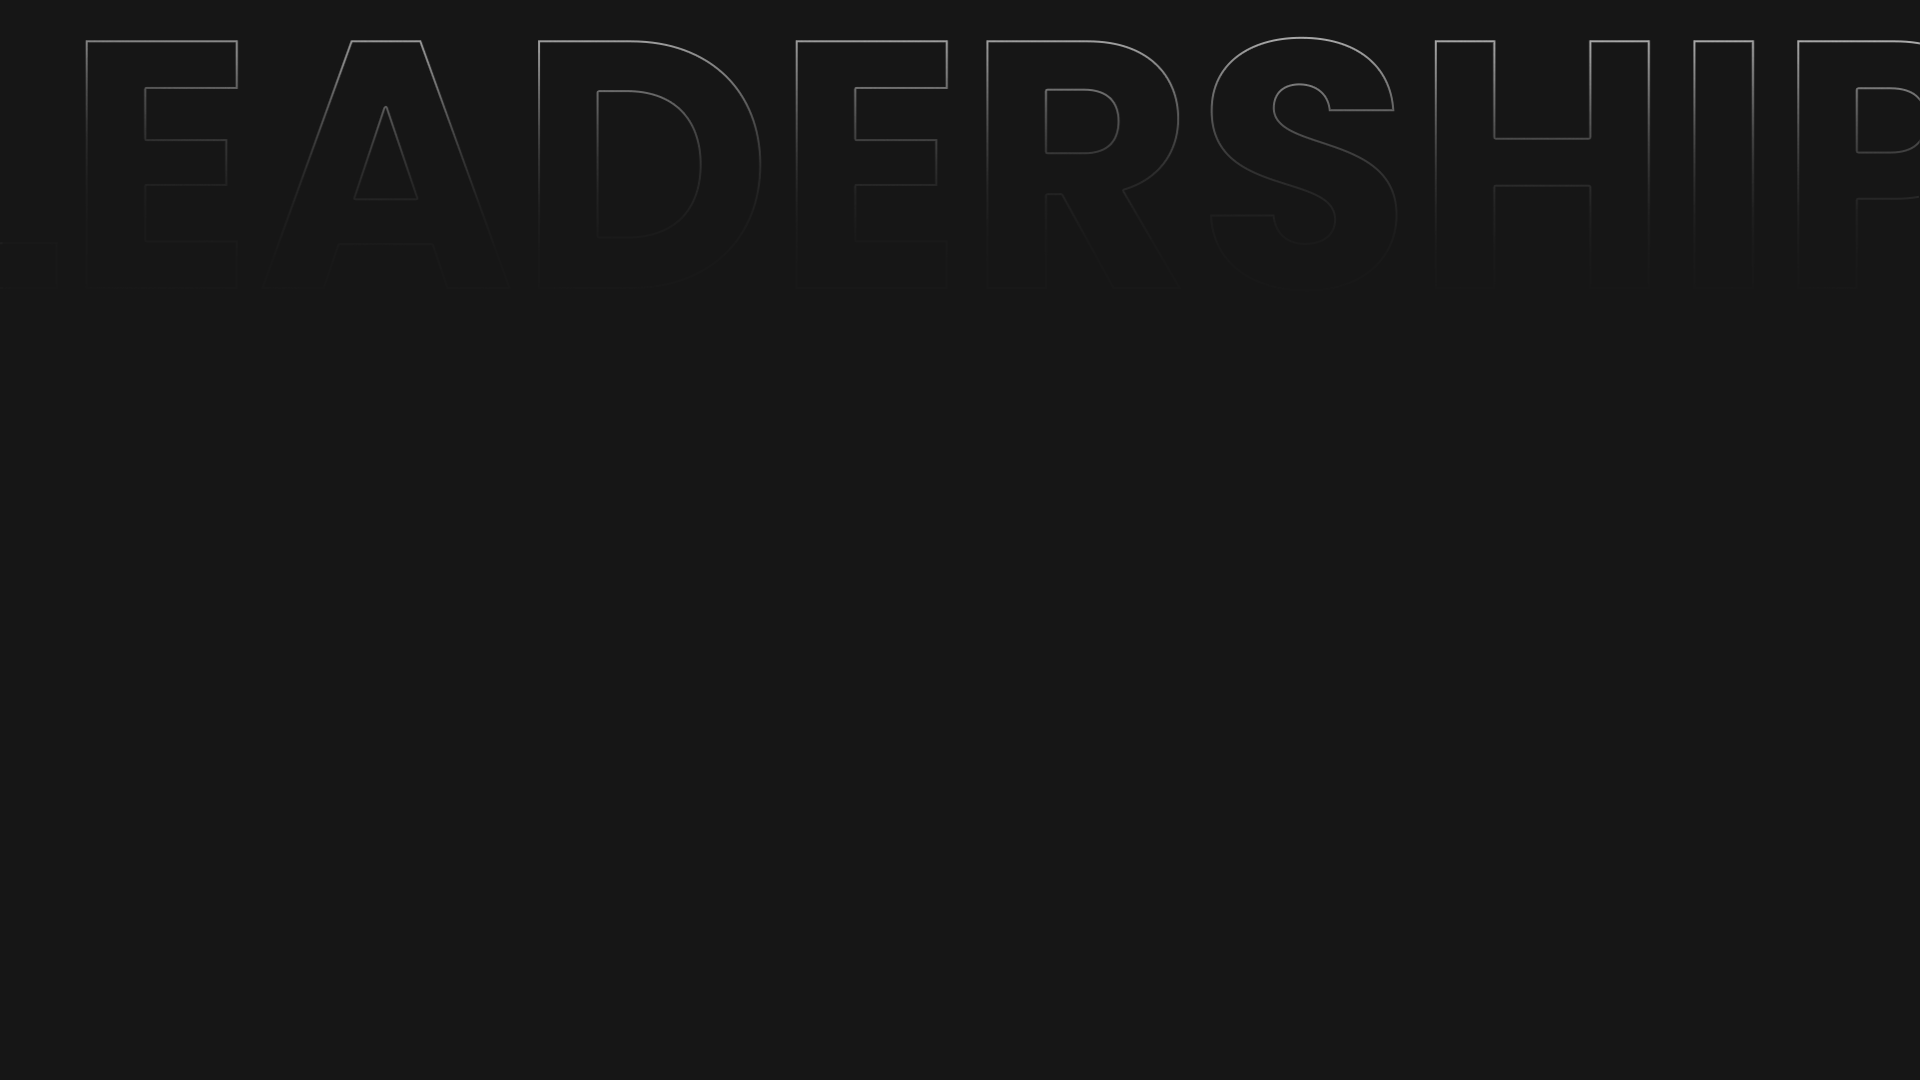
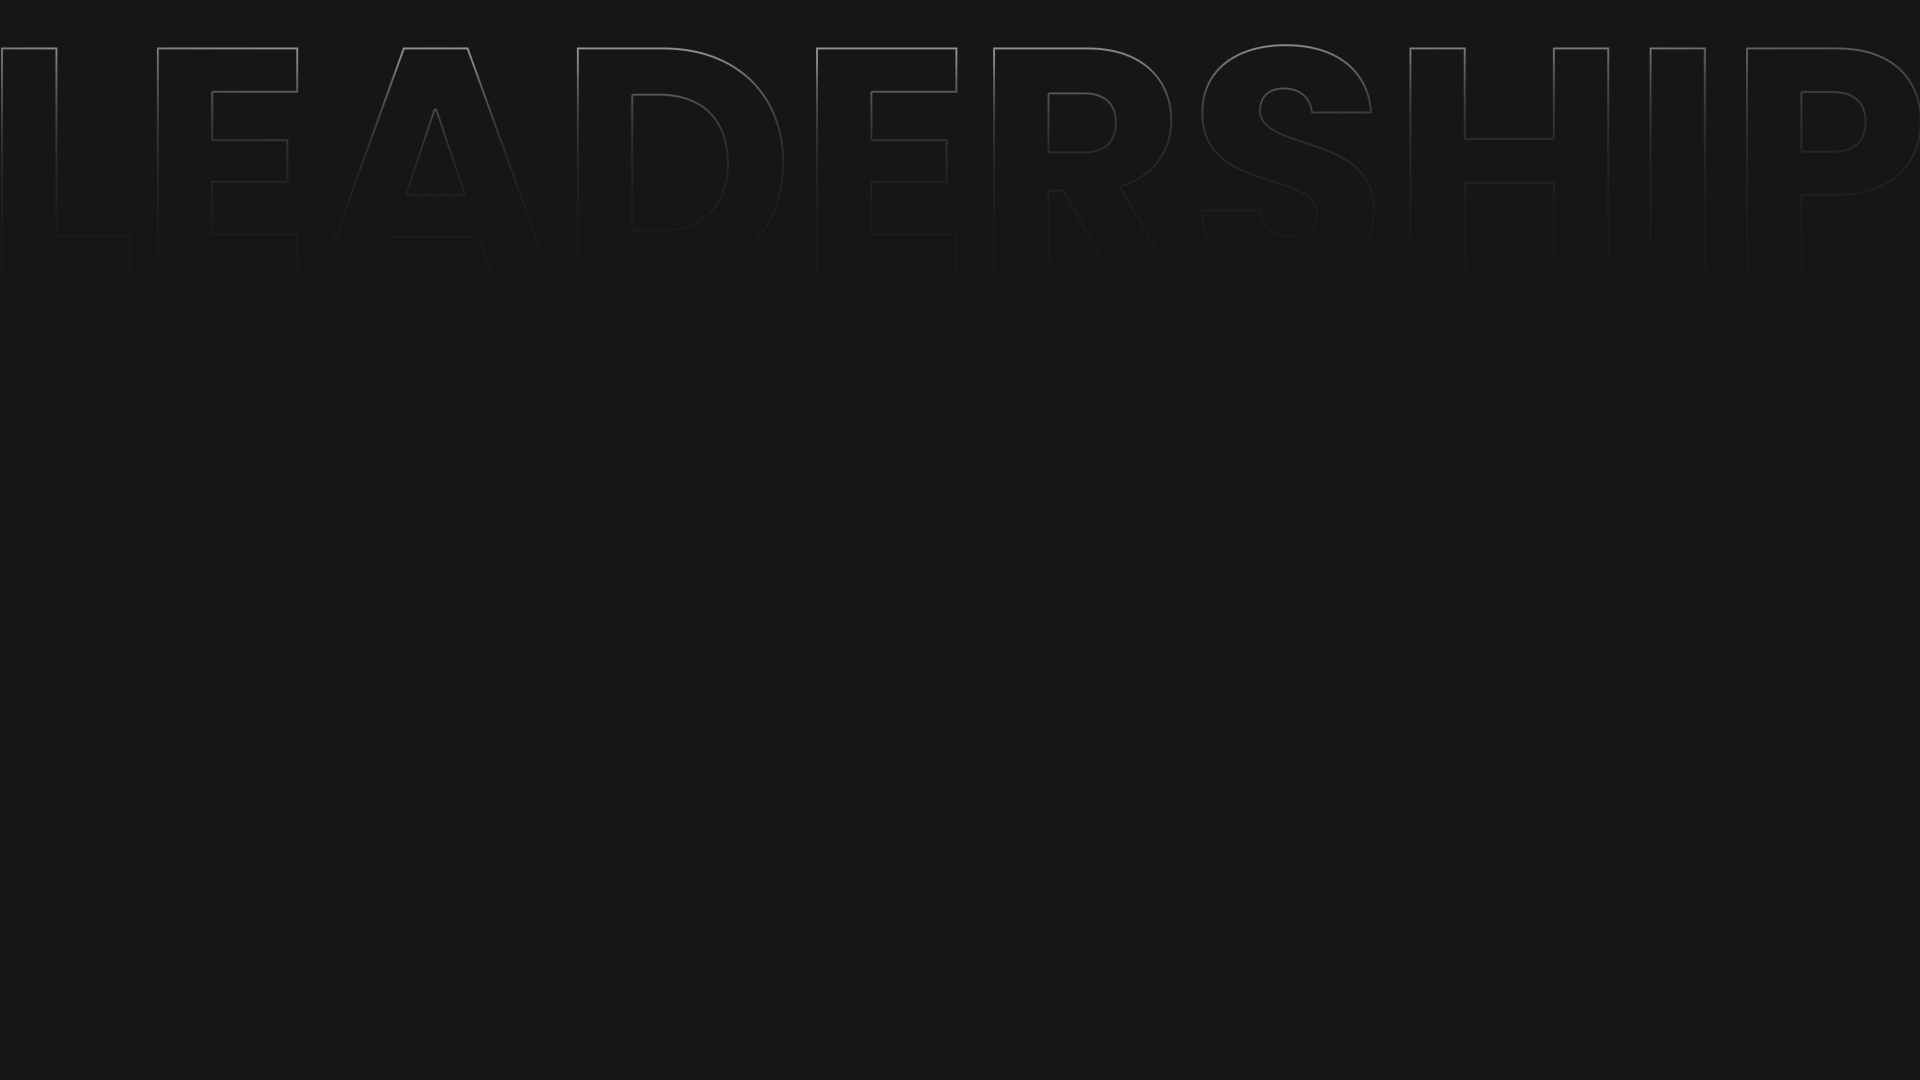
responsivity, databases

diff --git a/src/scss/TeamScreen.scss b/src/scss/TeamScreen.scss
@@ -1,0 +1,92 @@
+@import url('https://fonts.googleapis.com/css2?family=Poppins:wght@400;600;800&display=swap');
+@import url('https://fonts.googleapis.com/css2?family=Inter:wght@400;700&display=swap');
+@import "variables";
+
+.leadership-section {
+    background-image: url('../images/leadership.png');
+    background-repeat: no-repeat;
+    background-size: cover;
+}
+
+.leadership-wrapper {
+    padding-top: calc(6vw);
+    padding-bottom: calc(8vw);
+}
+
+.paragraph {
+    font-size: 24px;
+    font-weight: 400;
+    font-family: 'Poppins', sans-serif;
+    color: $main-white-color;
+    text-align: center;
+    margin: 0 auto;
+    max-width: 800px;
+}
+
+@media only screen and (max-width: 700px) {
+    .paragraph {
+        font-size: 17px;
+    }
+}
+
+@media only screen and (max-width: 400px) {
+    .paragraph {
+        font-size: 14px;
+    }
+}
+
+.team-image {
+    width: auto;
+    max-height: 265px;
+    border-radius: 90px;
+}
+
+@media only screen and (max-width: 1201px) {
+    .team-image {
+        max-height: 200px;
+        border-radius: 60px;
+    }
+}
+
+@media only screen and (max-width: 992px) {
+    .team-image {
+        max-height: 135px;
+        border-radius: 50px;
+    }
+}
+
+
+h5 {
+    font-weight: 700;
+    font-family: 'Poppins', sans-serif;
+    color: $main-white-color;
+    font-size: 24px;
+}
+
+.position {
+    font-weight: 400;
+    font-family: 'Poppins', sans-serif;
+    color: $main-white-color;
+    font-size: 24px;
+}
+
+@media only screen and (max-width: 1201px) {
+    .position {
+        font-size: 12px;
+    }
+}
+
+.position-administrator {
+    color: $light-green-color !important;
+}
+
+.social-icon {
+    font-size: 38px;
+    margin-top: -15px;
+}
+
+.team-card {
+    margin-left: 15px;
+    margin-right: 15px;
+    width: auto;
+}

diff --git a/src/components/LeadershipEngine.jsx b/src/components/LeadershipEngine.jsx
@@ -1,0 +1,32 @@
+import React from 'react'
+import { Container, Row, Col } from 'react-bootstrap';
+import { LeadershipData} from '../database/LeadershipData';
+import { FaGlobe } from "react-icons/fa6";
+import { FaInstagram } from "react-icons/fa";
+import '../scss/TeamScreen.scss'
+
+const LeadershipEngine = () => {
+  return (
+    <Container>
+      <Row>
+        {LeadershipData.map((LeadershipItem) => {
+          return (
+            <Col sm={6} md={3} lg={3} key={LeadershipItem.id}>
+              <div className="team-card">
+                <img src={LeadershipItem.photo} alt="" className="team-image" />
+                <h5 className="mt-2">{LeadershipItem.nickname}</h5>
+                <p className="position position-administrator text-center">{LeadershipItem.position}</p>
+                <div className="d-flex flex-row social-icon justify-content-center mb-5">
+                  <a href={LeadershipItem.social}><FaGlobe /></a>
+                  <a href={LeadershipItem.social}><FaInstagram /></a>
+                </div>
+              </div>
+            </Col>
+          );
+        })}
+      </Row>
+    </Container>
+  );
+}
+
+export default LeadershipEngine;

diff --git a/src/database/SliderData.js b/src/database/SliderData.js
@@ -1,27 +1,27 @@
 export const SliderData = [
     {
         id: 1,
-        title: 'Yellow Islands',
-        linkImg: '../src/images/sliderMap5.png',
+        title: 'Brown Valley',
+        linkImg: '../src/images/SliderImages/sliderMap1.png',
     },
     {
         id: 2,
-        title: 'Brown Valley',
-        linkImg: '../src/images/sliderMap1.png',
+        title: 'Red Village',
+        linkImg: '../src/images/SliderImages/sliderMap2.png',
     },
     {
         id: 3,
         title: 'Red Village',
-        linkImg: '../src/images/sliderMap2.png',
+        linkImg: '../src/images/SliderImages/sliderMap3.png',
     },
     {
         id: 4,
-        title: 'Yellow Islands',
-        linkImg: '../src/images/sliderMap3.png',
+        title: 'China',
+        linkImg: '../src/images/SliderImages/sliderMap4.png',
     },
     {
         id: 5,
-        title: 'China',
-        linkImg: '../src/images/sliderMap4.png',
+        title: 'Yellow Islands',
+        linkImg: '../src/images/SliderImages/sliderMap5.png',
     },
 ]

diff --git a/src/database/LeadershipData.js b/src/database/LeadershipData.js
@@ -1,0 +1,30 @@
+export const LeadershipData = [
+    {
+        id: 1,
+        nickname: 'ReggyCZ',
+        position: 'Administrator',
+        social: 'https://www.instagram.com/reggycz/',
+        photo: '../src/images/LeadershipImages/ReggyCZ.png',
+    },
+    {
+        id: 2,
+        nickname: 'Adonymous',
+        position: 'Graphic designer',
+        social: 'https://www.epic-central.eu/',
+        photo: '../src/images/LeadershipImages/Adonymous.png',
+    },
+    {
+        id: 3,
+        nickname: 'TagzTurtlee',
+        position: 'Render artist',
+        social: 'https://www.instagram.com/tagzturtlee_builder/',
+        photo: '../src/images/LeadershipImages/ReggyCZ.png',
+    },
+    {
+        id: 4,
+        nickname: 'Jayjayli',
+        position: 'Administrator',
+        social: 'https://jayjay.li/',
+        photo: '../src/images/LeadershipImages/Jayjayli.png',
+    },
+]

diff --git a/src/screens/TeamScreen.jsx b/src/screens/TeamScreen.jsx
@@ -1,8 +1,25 @@
 import React from 'react'
+import { Container } from 'react-bootstrap'
+import '../scss/TeamScreen.scss'
+import LeadershipEngine from '../components/LeadershipEngine'
 
 const TeamScreen = () => {
   return (
-    <div>TeamScreen</div>
+    <>
+      <section className="leadership-section">
+        <Container>
+          <div className="leadership-wrapper text-center">
+            <h2>Leadership</h2>
+            <p className="paragraph text-center mt-5">Leadership is responsible for the entire BuildsMarket project. They accept or reject applications for
+             positions and are responsible for the entire BuildsMarket systems.
+            </p>
+            <div className="d-flex flex-row justify-content-center mt-5">
+              <LeadershipEngine />
+            </div>
+          </div>
+        </Container>
+      </section>
+    </>
   )
 }
 

diff --git a/src/components/Footer.jsx b/src/components/Footer.jsx
@@ -18,9 +18,9 @@ const Footer = () => {
           </div>
           <div className="col-md-4 text-center mb-md mt-3 mb-1">
             <div className="footer-icons">
-              <a href="https://www.instagram.com/buildsmarket/"><BsInstagram /></a>
-              <a href="https://discord.buildsmarket.com/"><BsDiscord /></a>
-              <a href="https://twitter.com/BuildsMarket"><FaXTwitter /></a>
+              <a href="https://www.instagram.com/buildsmarket/" target="_blank"><BsInstagram /></a>
+              <a href="https://discord.buildsmarket.com/" target="_blank"><BsDiscord /></a>
+              <a href="https://twitter.com/BuildsMarket" target="_blank"><FaXTwitter /></a>
             </div>
             <p className="footer-text">contact@buildsmarket.com</p>
           </div>

diff --git a/src/screens/HomeScreen.jsx b/src/screens/HomeScreen.jsx
@@ -23,7 +23,7 @@ const HomeScreen = () => {
           <p className="text-center">BuildsMarket.com is a collective of professional builders who have united to provide the market with
              high-quality builds at competitive prices. 
              Our offerings cover not just non-exclusive builds but also unique exclusive projects, catering to the
-             diversity of our clients' needs and visions.
+             diversity of our client's needs and visions.
           </p>
           <div className="text-center mt-3">
             <Link to="/about" className="homescreen-button">Read More!</Link>

diff --git a/src/scss/Slider.scss b/src/scss/Slider.scss
@@ -34,7 +34,7 @@ img {
     text-transform: uppercase;
 }
 
-@media only screen and (max-width: 340px) {
+@media only screen and (max-width: 365px) {
     h2 {
         font-size: 36px;
     }

diff --git a/src/database/RenderArtistsData.js b/src/database/RenderArtistsData.js
@@ -1,0 +1,3 @@
+export const RenderArtistsData = [
+    
+]

diff --git a/src/database/BuildersData.js b/src/database/BuildersData.js
@@ -1,0 +1,3 @@
+export const BuildersData = [
+    
+]

diff --git a/src/database/GraphicsData.js b/src/database/GraphicsData.js
@@ -1,0 +1,3 @@
+export const GraphicsData = [
+    
+]

diff --git a/src/database/PartnerData.js b/src/database/PartnerData.js
@@ -1,0 +1,3 @@
+export const PartnerData = [
+    
+]
